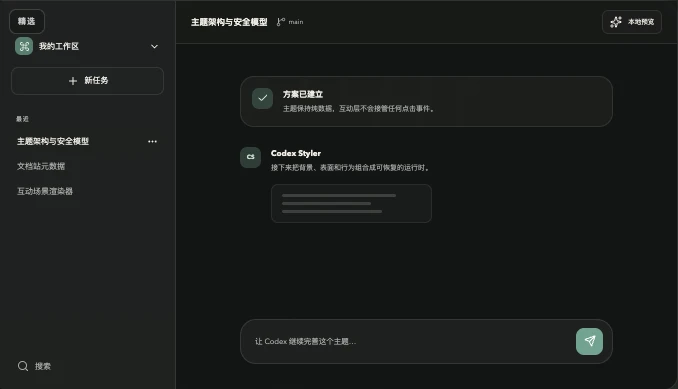
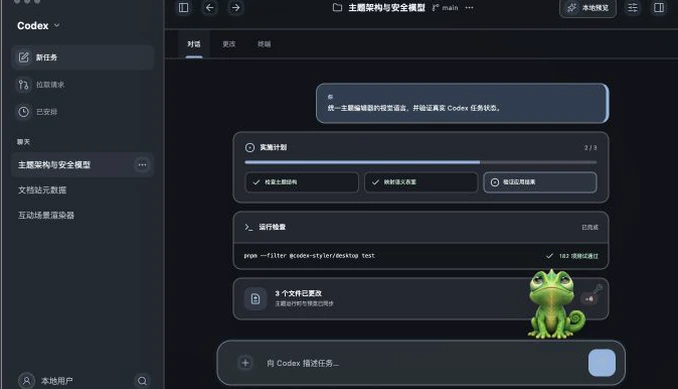
feat(theme): 精修原生主题的中性色彩层级

diff --git a/packages/theme-core/src/builtins.ts b/packages/theme-core/src/builtins.ts
@@ -90,74 +90,74 @@ export const nativeRefined: ThemeDefinition = {
   variants: {
     light: detailedVariant(
       variant(
-        "#e9e7e1",
-        "#f7f5ef",
-        "#20201e",
-        "#605e58",
-        "#c9c5ba",
-        "#446f63",
-        "#e9e7e1",
-        0.06,
-        0.88,
+        "#f1f3f6",
+        "#fbfcfd",
+        "#1b2027",
+        "#59626f",
+        "#c9d0d9",
+        "#4e739d",
+        "#e9edf2",
+        0.04,
+        0.92,
         { layout: "native", iconStyle: "contained", decorations: "subtle" },
       ),
       {
-        canvas: "#e9e7e1",
-        surfaceRaised: "#fffdf7",
-        surfaceOverlay: "#f1eee6",
-        surfaceSunken: "#e5e2da",
-        control: "#eeeae1",
-        controlHover: "#e4e0d6",
-        controlActive: "#d5ddd8",
-        textTertiary: "#6d6a63",
-        onAccent: "#f7fbf8",
-        borderSubtle: "#d8d4ca",
-        borderStrong: "#918d83",
-        focus: "#446f63",
-        success: "#2f704f",
-        warning: "#87570f",
-        danger: "#a33f3a",
-        info: "#315f85",
-        added: "#2f704f",
-        modified: "#87570f",
-        deleted: "#a33f3a",
+        canvas: "#f1f3f6",
+        surfaceRaised: "#ffffff",
+        surfaceOverlay: "#f6f7f9",
+        surfaceSunken: "#e8ebef",
+        control: "#eef1f4",
+        controlHover: "#e5e9ee",
+        controlActive: "#dbe4ef",
+        textTertiary: "#707a87",
+        onAccent: "#f8fbff",
+        borderSubtle: "#dce1e7",
+        borderStrong: "#7e8997",
+        focus: "#4e739d",
+        success: "#2f6f52",
+        warning: "#805a16",
+        danger: "#a64146",
+        info: "#356b9a",
+        added: "#2f6f52",
+        modified: "#805a16",
+        deleted: "#a64146",
       },
       { intensity: 0.5, parallax: 3, targetFps: 30 },
       12,
     ),
     dark: detailedVariant(
       variant(
-        "#151716",
-        "#202321",
-        "#f1eee6",
-        "#b3b8b2",
-        "#3a3e3b",
-        "#8dc9b3",
-        "#0c0e0d",
-        0.18,
-        0.9,
+        "#111419",
+        "#1b1f25",
+        "#f2f4f7",
+        "#b1b8c2",
+        "#343b46",
+        "#8eb5df",
+        "#0b0e12",
+        0.12,
+        0.93,
         { layout: "native", iconStyle: "contained", decorations: "subtle" },
       ),
       {
-        canvas: "#151716",
-        surfaceRaised: "#292d2a",
-        surfaceOverlay: "#303531",
-        surfaceSunken: "#171a18",
-        control: "#2a2e2b",
-        controlHover: "#343a36",
-        controlActive: "#3d4a43",
-        textTertiary: "#949b95",
-        onAccent: "#10251e",
-        borderSubtle: "#303632",
-        borderStrong: "#5c665f",
-        focus: "#8dc9b3",
-        success: "#75c89c",
-        warning: "#e0b35e",
-        danger: "#e27b75",
-        info: "#82b9df",
-        added: "#75c89c",
-        modified: "#e0b35e",
-        deleted: "#e27b75",
+        canvas: "#111419",
+        surfaceRaised: "#252a32",
+        surfaceOverlay: "#2b313a",
+        surfaceSunken: "#11151a",
+        control: "#242a32",
+        controlHover: "#2e3540",
+        controlActive: "#34445a",
+        textTertiary: "#8b94a0",
+        onAccent: "#101a25",
+        borderSubtle: "#2a3039",
+        borderStrong: "#687382",
+        focus: "#8eb5df",
+        success: "#75c99d",
+        warning: "#e2b664",
+        danger: "#e27f7e",
+        info: "#84b7e3",
+        added: "#75c99d",
+        modified: "#e2b664",
+        deleted: "#e27f7e",
       },
       { intensity: 0.5, parallax: 3, targetFps: 30 },
       12,
@@ -168,7 +168,7 @@ export const nativeRefined: ThemeDefinition = {
       {
         id: "soft-vignette",
         type: "vignette",
-        opacity: 0.24,
+        opacity: 0.14,
         blendMode: "multiply",
         parallax: 0,
       },